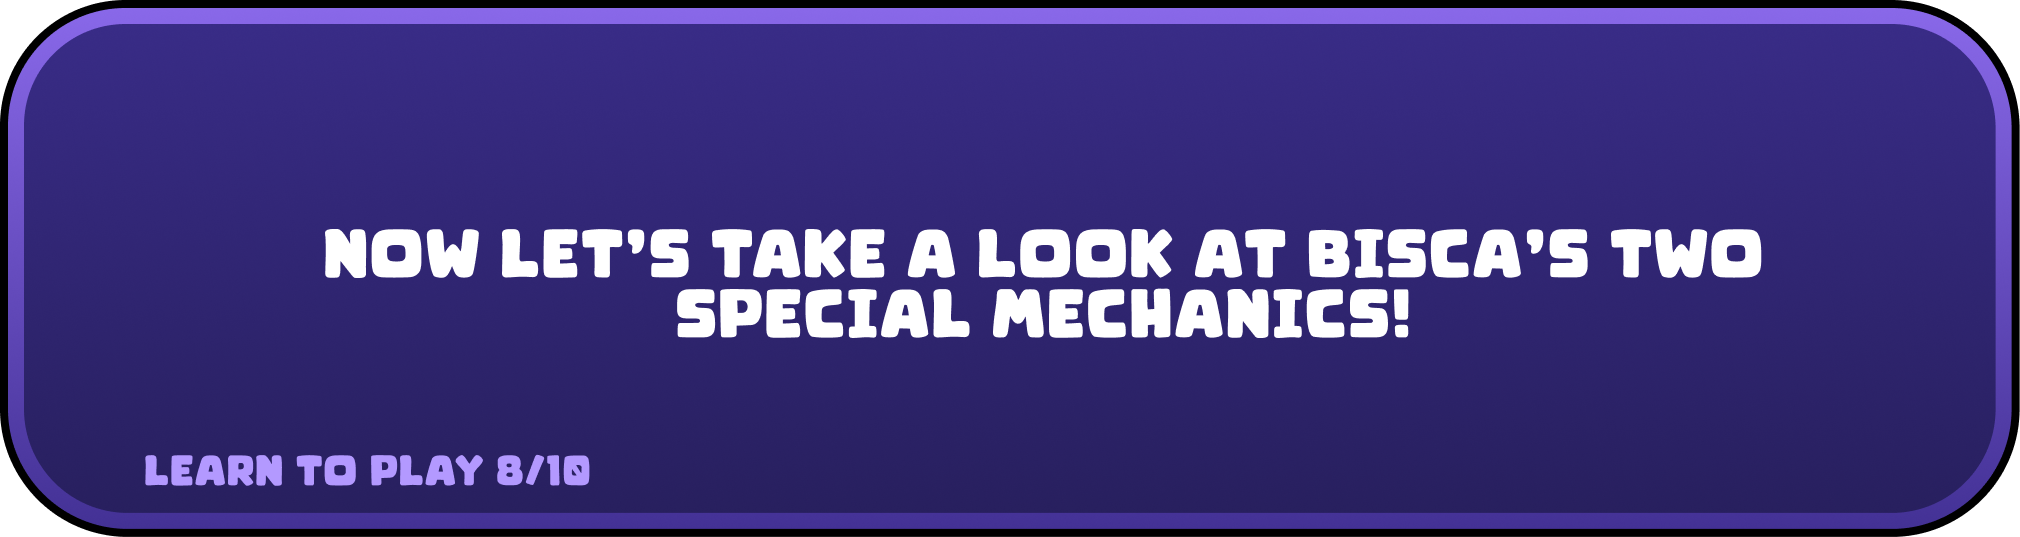
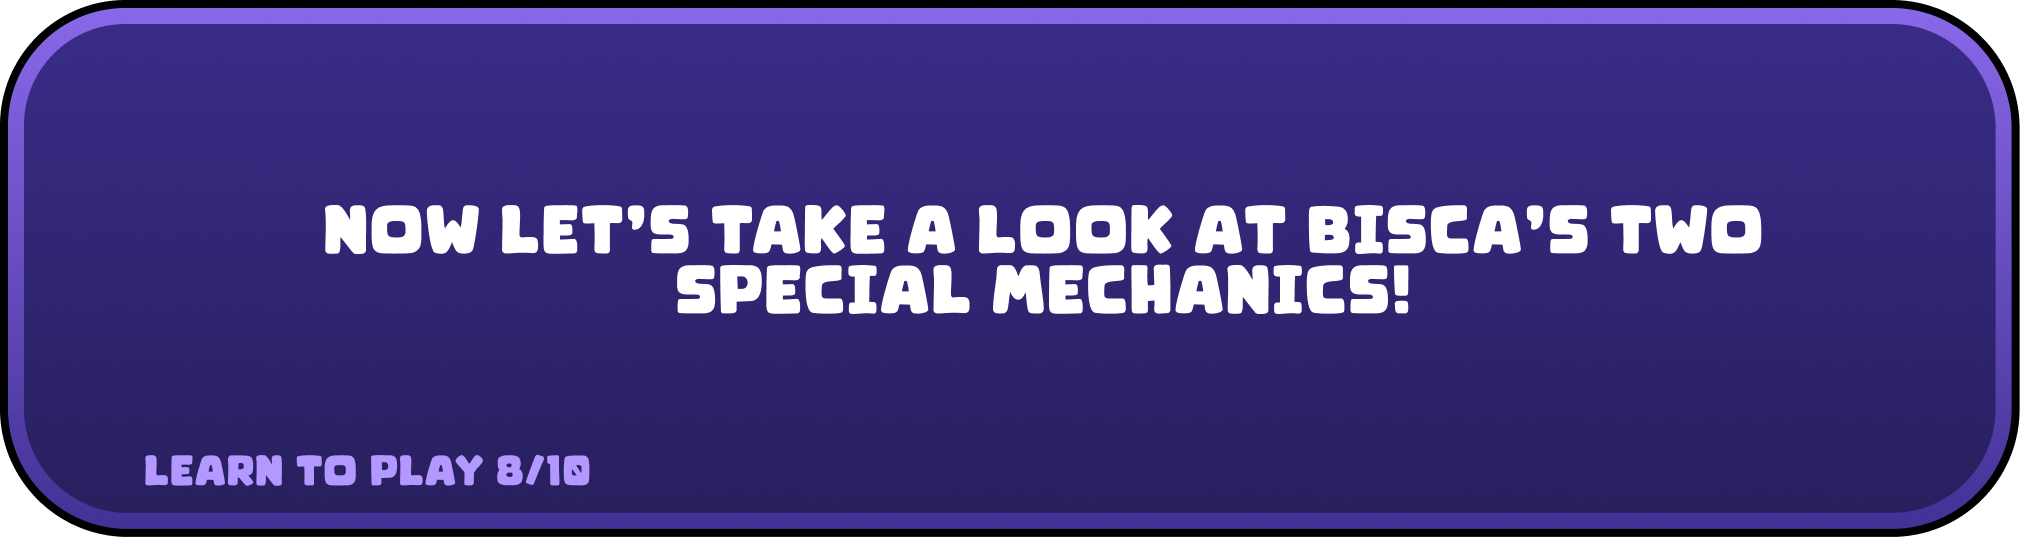
fix vari

Changed region(s): [[0.1559, 0.3575, 0.8733, 0.6257]]

diff --git a/docs/index.html b/docs/index.html
@@ -40,7 +40,7 @@ border-radius:12px!important;z-index:20!important;touch-action:auto!important;
 <noscript>Attiva JavaScript per giocare.</noscript>
 <script src="index.js"></script>
 <script>
-const config={"args":[],"canvasResizePolicy":2,"emscriptenPoolSize":8,"ensureCrossOriginIsolationHeaders":true,"executable":"index","experimentalVK":true,"fileSizes":{"index.pck":103536740,"index.wasm":39514754},"focusCanvas":true,"gdextensionLibs":[],"godotPoolSize":4};
+const config={"args":[],"canvasResizePolicy":2,"emscriptenPoolSize":8,"ensureCrossOriginIsolationHeaders":true,"executable":"index","experimentalVK":true,"fileSizes":{"index.pck":109721216,"index.wasm":39514754},"focusCanvas":true,"gdextensionLibs":[],"godotPoolSize":4};
 // Read CSS safe-area insets without shrinking the canvas/background.
 // Fractions are relative to the canvas CSS rectangle, not device pixels.
 const safeAreaProbe=document.createElement('div');
